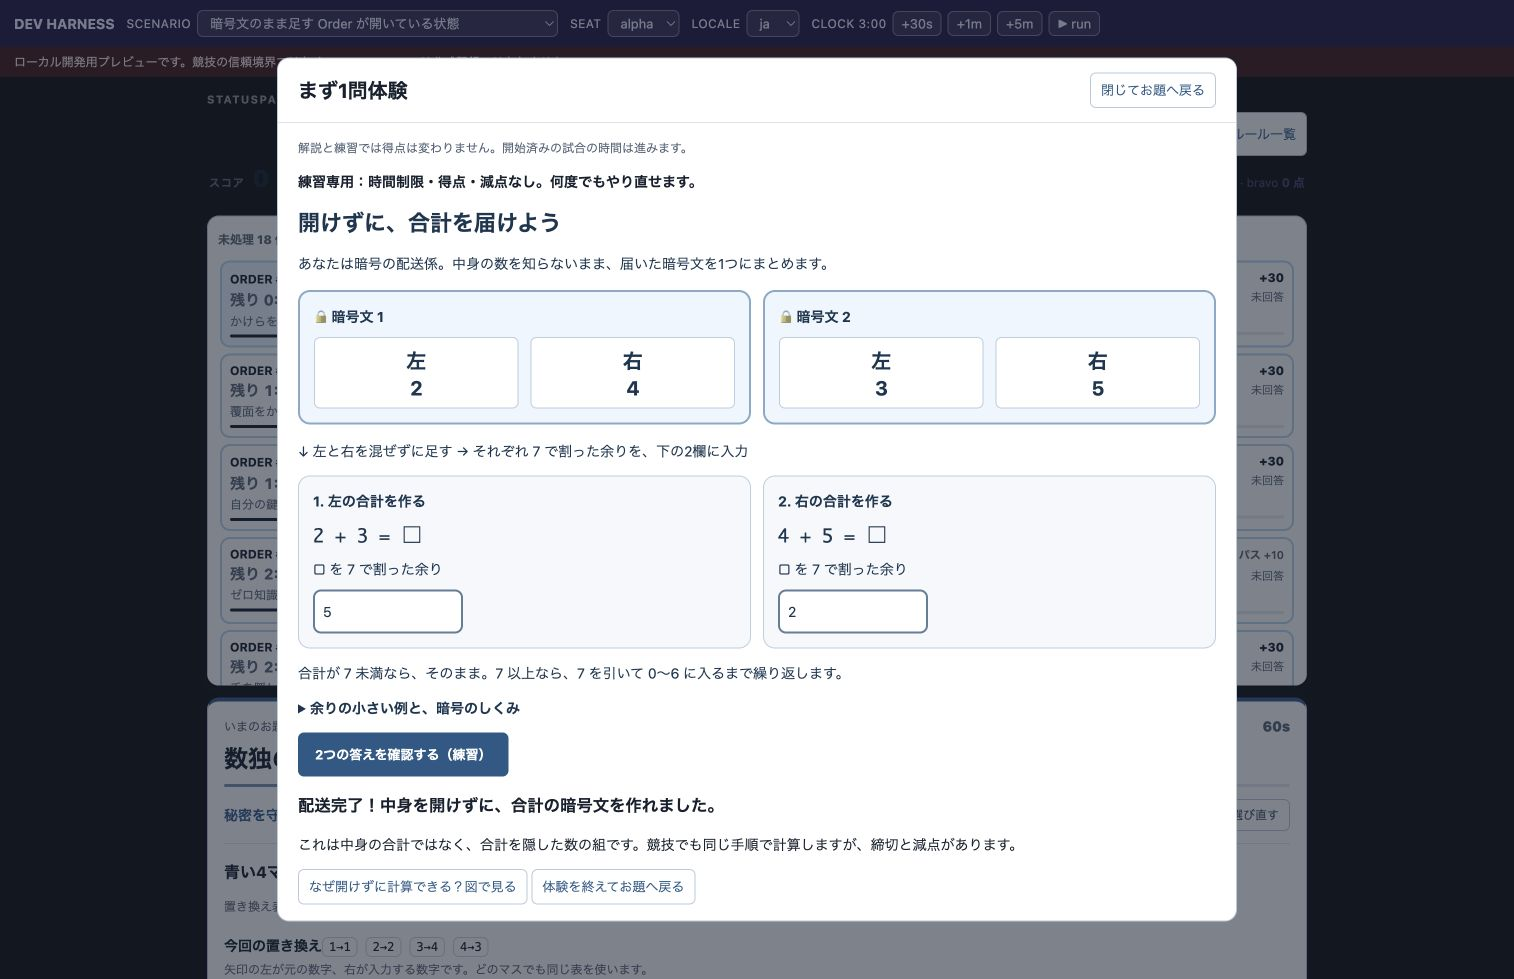
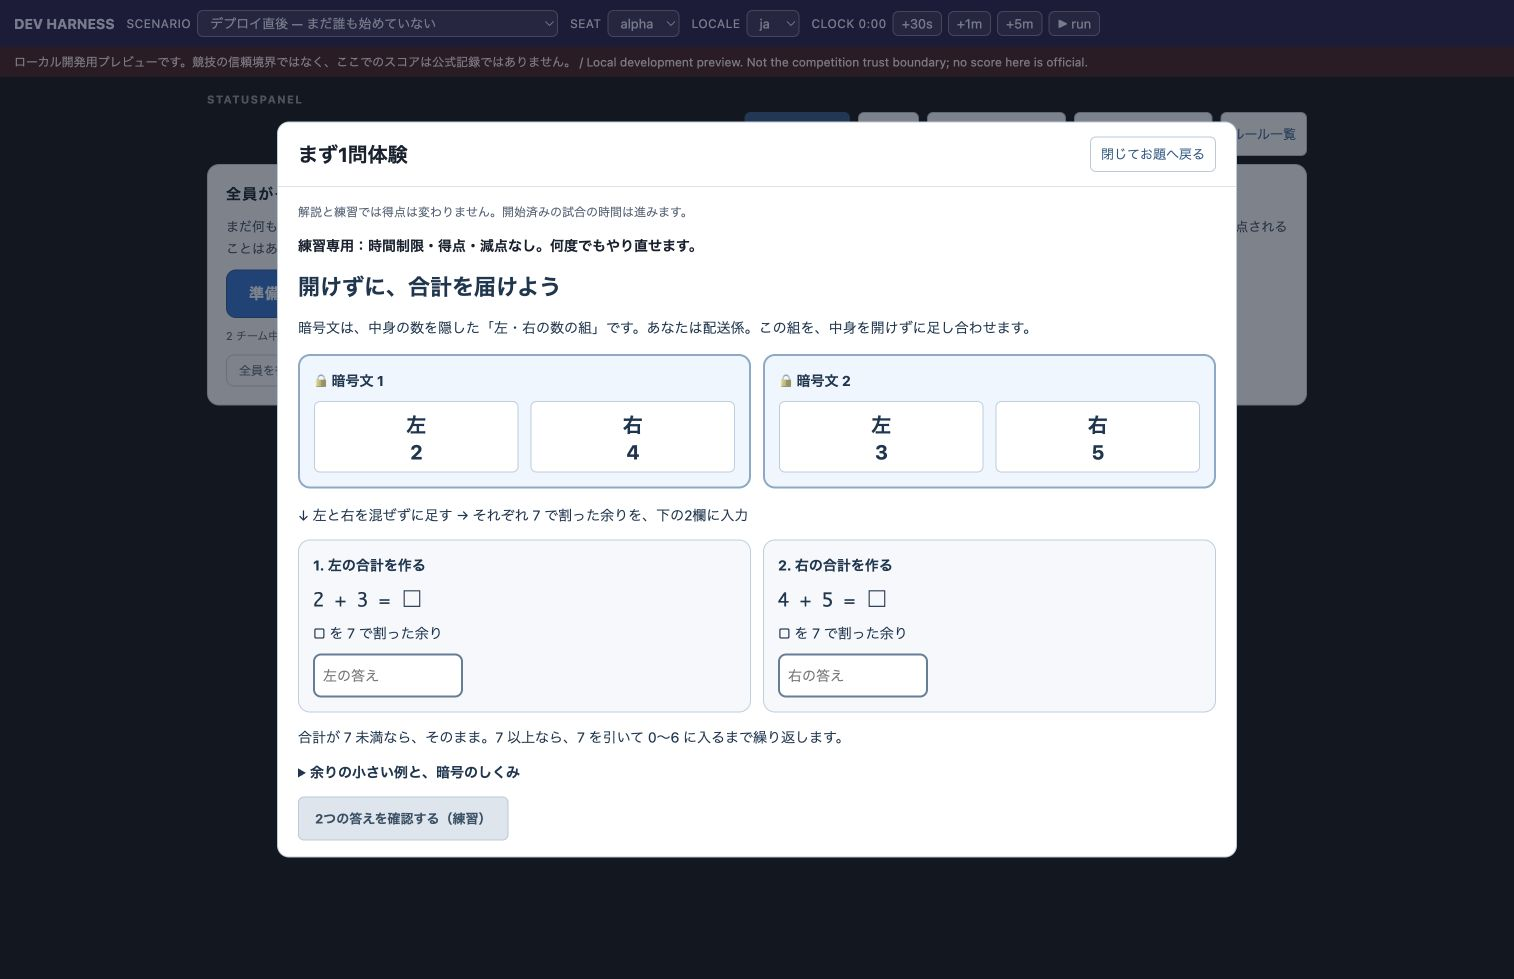
fix(crypto-battle): introduce ciphertext before practice and remove solved screenshot

diff --git a/battles/ac26-crypto-battle/portal/EncryptedCargo.tsx b/battles/ac26-crypto-battle/portal/EncryptedCargo.tsx
@@ -18,7 +18,7 @@ export default function EncryptedCargo({ locale, inputs, prime, left, right, onL
       .tc-cargo details{margin:14px 0}.tc-cargo summary{cursor:pointer;font-weight:700}
     `}</style>
     <h3>{ja ? "開けずに、合計を届けよう" : "Deliver the total. Keep the contents sealed."}</h3>
-    <p>{ja ? "あなたは暗号の配送係。中身の数を知らないまま、届いた暗号文を1つにまとめます。" : "You are the courier. Combine these encrypted packages without learning the numbers inside."}</p>
+    <p>{ja ? "暗号文は、中身の数を隠した「左・右の数の組」です。あなたは配送係。この組を、中身を開けずに足し合わせます。" : "A ciphertext is a pair of left and right numbers that hides a number inside. You are the courier: combine these pairs without opening their contents."}</p>
     <div className="tc-cargo-route">{inputs.map((input, index) => <div className="tc-cargo-parcel" key={index}>
       <strong>{ja ? `🔒 暗号文 ${index + 1}` : `🔒 Ciphertext ${index + 1}`}</strong>
       <div className="tc-cargo-pair"><span>{ja ? "左" : "Left"}<br />{input.r}</span><span>{ja ? "右" : "Right"}<br />{input.y}</span></div>
@@ -34,7 +34,7 @@ export default function EncryptedCargo({ locale, inputs, prime, left, right, onL
     </div>
     <p>{ja ? `合計が ${prime} 未満なら、そのまま。${prime} 以上なら、${prime} を引いて 0〜${BigInt(prime) - 1n} に入るまで繰り返します。` : `A total below ${prime} stays unchanged. Otherwise subtract ${prime} until it is between 0 and ${BigInt(prime) - 1n}.`}</p>
     <details><summary>{ja ? "余りの小さい例と、暗号のしくみ" : "A small remainder example and the mechanism"}</summary>
-      <p>{ja ? "例：7で割る場合、4 + 5 = 9、9 − 7 = 2。答えは余りの2です。「mod」はこの余りを表します。" : "Example with divisor 7: 4 + 5 = 9, then 9 − 7 = 2. The answer is the remainder, 2. ‘mod’ means this remainder."}</p>
+      <p>{ja ? "別の数で練習：5で割る場合、3 + 6 = 9、9 − 5 = 4。余りは4です。「mod」はこの余りを表します。" : "An unrelated example with divisor 5: 3 + 6 = 9, then 9 − 5 = 4. The remainder is 4. ‘mod’ means this remainder."}</p>
       <p>{ja ? "式：(左の合計 mod p, 右の合計 mod p)。p は画面の割る数。暗号文は中身を隠した数の組です。右には中身と隠す数が混ざっています。足しても隠れたままなので、あなたには中身の合計は読めません。" : "Rule: (sum of left values mod p, sum of right values mod p). p is the displayed divisor. Each ciphertext is a pair hiding a number. Its right value mixes the content with a mask. Adding preserves that mask; you cannot read the plaintext total."}</p>
       <p>{ja ? "鍵を持つ判定側は、各入力の鍵と左の値を使って隠す数を取り除き、合計を確認します。これが準同型暗号の『復号せずに計算する』体験です。この教材は加算の模型で、掛け算も扱う完全準同型暗号（FHE）そのものではありません。" : "The judge uses each input’s key and left value to remove the masks and check the total. This models homomorphic computation without decryption. It is an addition model, not full FHE, which also supports multiplication."}</p>
     </details>

diff --git a/battles/ac26-crypto-battle/FIRST-EXPERIENCE-VALIDATION.md b/battles/ac26-crypto-battle/FIRST-EXPERIENCE-VALIDATION.md
@@ -55,3 +55,5 @@ The same root `make before-commit` passed in the isolated checkout: all 21 works
 All five review findings addressed: validate the modulus before rendering; translate each encrypted-addition rejection; accept leading-zero practice answers with the same 700-digit bound; show an actual FHE mechanism diagram; wrap legacy 19-digit ciphertexts. The reducer and scoring remain unchanged.
 
 The browser accepted `05` / `02` in practice and the completion link opened the named encrypted-delivery figure. At 390px, the real legacy scenario with modulus 2305843009213693951 had no overflowing descendants in the delivery region (clientWidth and scrollWidth both 326px). Game regression suite: 871 passed; dev scenario suite: 114 passed.
+
+Second review: replaced the guide screenshot with a fresh, unanswered practice screen; both fields are blank and no completion verdict is shown. Defined ciphertext before the cards in Japanese and English. The optional arithmetic example now uses unrelated numbers and a different divisor. Browser confirmed the initial definition and blank screenshot; all 8 delivery tests passed.
